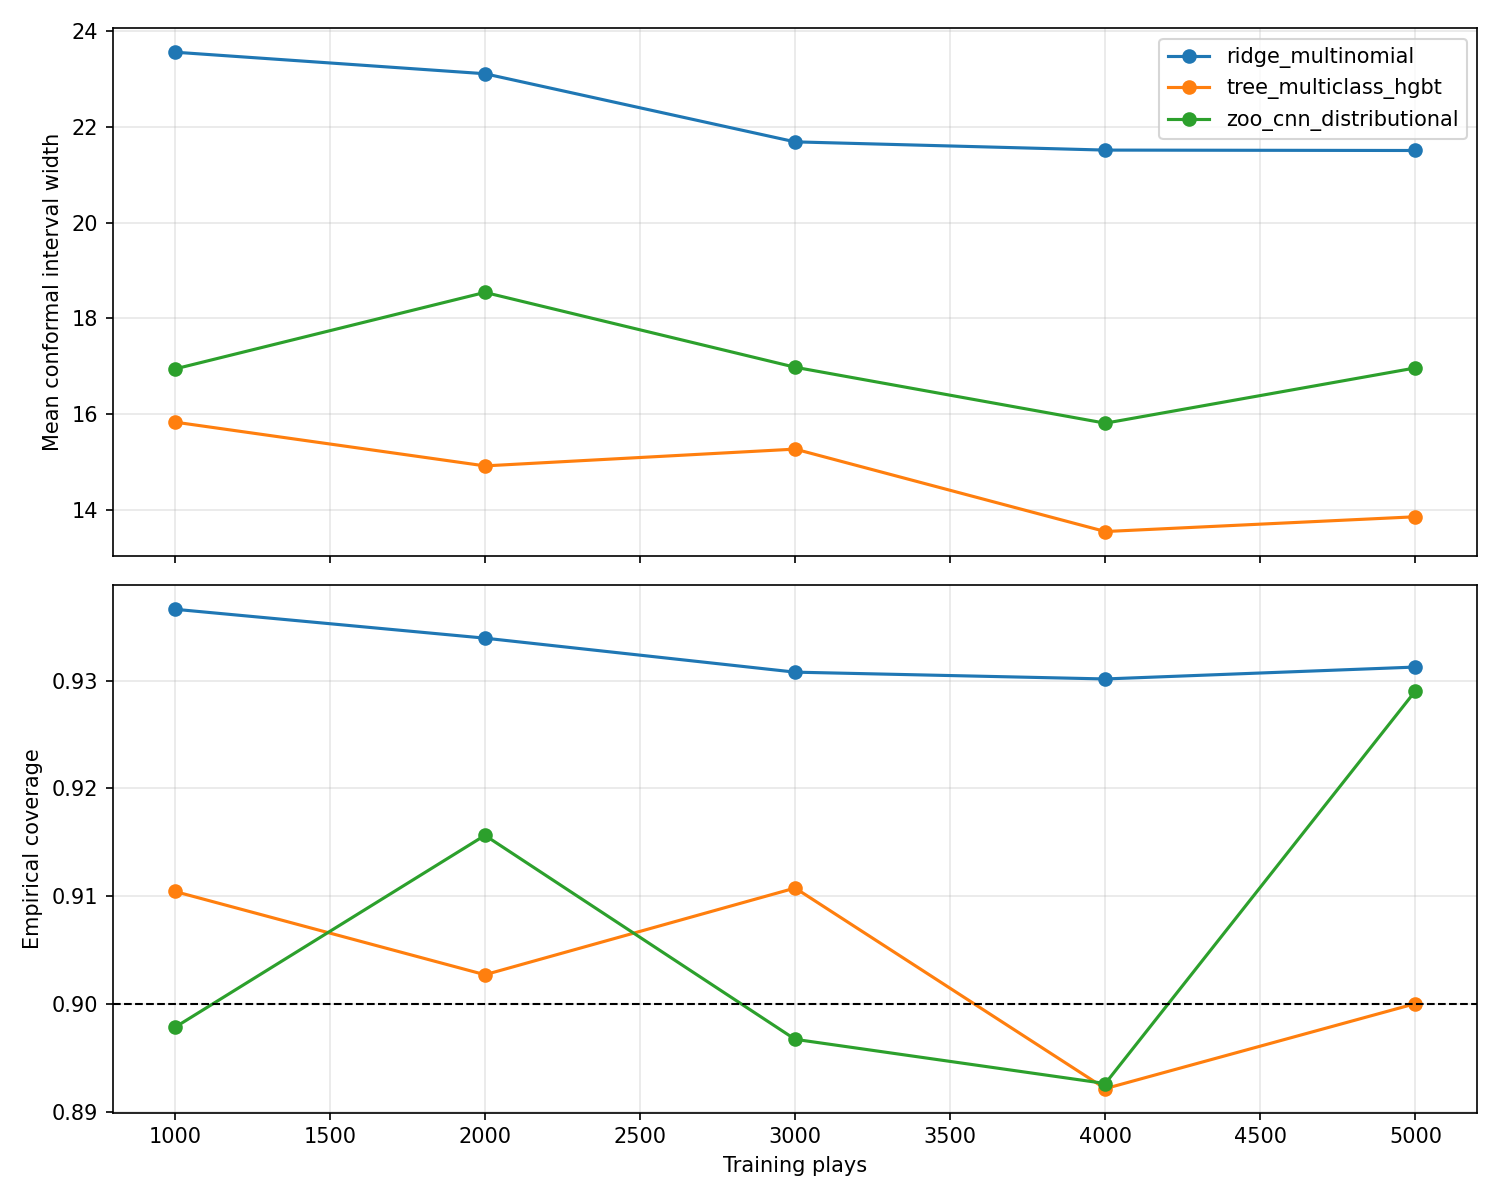
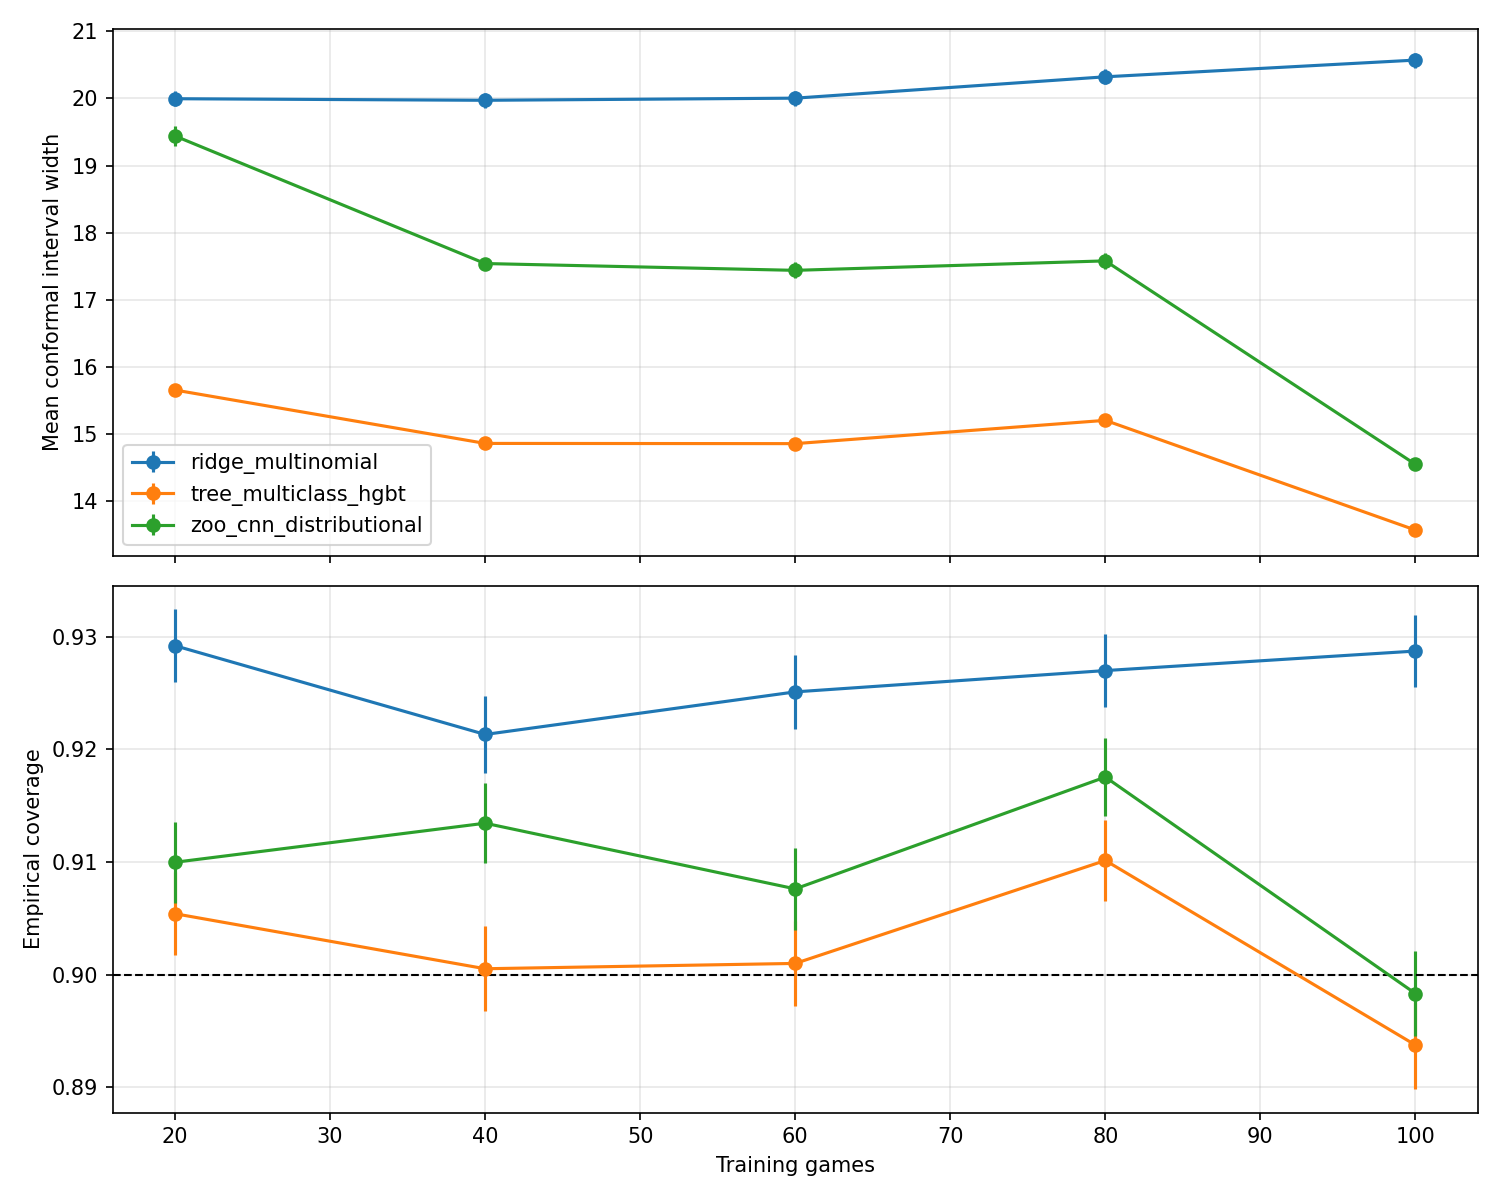
do by game

diff --git a/training_size_sweep.py b/training_size_sweep.py
@@ -1,7 +1,7 @@
 """Training-size sweep for conformalized prediction intervals across Ridge, Tree, and Zoo CNN.
 
-Uses a fixed game-level split (train_pool/calibration/test), nested train subsets in 1,000-play
-steps, and conformal interval padding on top of model central intervals from predictive distributions.
+Uses a fixed game-level split (train_pool/calibration/test), nested train subsets in 20-game
+chunks, and conformal interval padding on top of model central intervals from predictive distributions.
 """
 
 from __future__ import annotations
@@ -37,6 +37,7 @@ class SplitData:
     train_pool_idx: np.ndarray
     calibration_idx: np.ndarray
     test_idx: np.ndarray
+    train_games_ordered: np.ndarray  # Shuffled train-pool game IDs for nested subsets
 
 
 def set_determinism(seed: int) -> None:
@@ -84,10 +85,12 @@ def build_game_split(play_map: pd.DataFrame, seed: int, train_frac: float = 0.6,
     test_games = set(games[n_train + n_cal :])
 
     g = play_map["GameId"].to_numpy()
+    train_games_ordered = games[:n_train]  # First n_train games after shuffle
     return SplitData(
         train_pool_idx=np.where(np.isin(g, list(train_games)))[0],
         calibration_idx=np.where(np.isin(g, list(cal_games)))[0],
         test_idx=np.where(np.isin(g, list(test_games)))[0],
+        train_games_ordered=train_games_ordered,
     )
 
 
@@ -134,7 +137,7 @@ def evaluate_with_conformal(
     test_y: np.ndarray,
     alpha: float,
 ) -> dict[str, float]:
-    """Central interval from model + conformal q on cal; report mean width and coverage on test."""
+    """Central interval from model + conformal q on cal; report mean width, coverage, SE on test."""
     cal_l, cal_u = central_interval_from_proba(cal_proba, alpha)
     test_l, test_u = central_interval_from_proba(test_proba, alpha)
 
@@ -145,9 +148,18 @@ def evaluate_with_conformal(
     width = hi - lo
     covered = (test_y >= lo) & (test_y <= hi)
 
+    n_test = len(width)
+    mean_width = float(np.mean(width))
+    std_width = float(np.std(width, ddof=1)) if n_test > 1 else 0.0
+    se_width = std_width / (n_test**0.5)
+    coverage = float(np.mean(covered))
+
     return {
-        "mean_width": float(np.mean(width)),
-        "coverage": float(np.mean(covered)),
+        "mean_width": mean_width,
+        "std_width": std_width,
+        "se_width": se_width,
+        "n_test": float(n_test),
+        "coverage": coverage,
         "q_padding": float(q),
     }
 
@@ -323,26 +335,24 @@ def run_sweep(
 
     split = build_game_split(play_map, seed=seed)
     train_pool = split.train_pool_idx
+    train_games_ordered = split.train_games_ordered
     cal_idx = split.calibration_idx
     test_idx = split.test_idx
+    g = play_map["GameId"].to_numpy()
 
-    # One permutation of train pool; we take first n_train for each size (cal/test fixed).
-    rng = np.random.default_rng(seed)
-    perm_train_pool = rng.permutation(train_pool)
+    ridge_alpha = tune_ridge(tab_x[train_pool], y_cls[train_pool], seed)
+    tree_params = tune_tree(tab_x[train_pool], y_cls[train_pool], seed)
 
-    ridge_alpha = tune_ridge(tab_x[perm_train_pool], y_cls[perm_train_pool], seed)
-    tree_params = tune_tree(tab_x[perm_train_pool], y_cls[perm_train_pool], seed)
-
-    n_max = (len(train_pool) // 1000) * 1000
-    # Sizes 1k, 2k, ... up to max_k thousand (capped by data)
-    max_n = min(max_k * 1000, n_max)
-    sizes = list(range(1000, max_n + 1, 1000))
+    # Sizes 20, 40, 60, ... games (20-game chunks), up to max_k * 20 capped by data
+    max_games = min(max_k * 20, len(train_games_ordered))
+    sizes = list(range(20, max_games + 1, 20))
     cnn_epochs = 50  # full Zoo (match run_zoo)
     output_stem = f"sweep_{max_k}"
     rows: list[dict[str, float | int | str]] = []
 
-    for n_train in sizes:
-        subset = perm_train_pool[:n_train]  # Train on first n_train plays only.
+    for n_games in sizes:
+        first_n_games = set(train_games_ordered[:n_games])
+        subset = train_pool[np.isin(g[train_pool], list(first_n_games))]
 
         ridge = fit_ridge_fixed_classes(
             tab_x[subset], y_cls[subset], alpha=ridge_alpha, seed=seed
@@ -372,8 +382,12 @@ def run_sweep(
             rows.append(
                 {
                     "model": model_name,
-                    "n_train": n_train,
+                    "n_train": n_games,
+                    "n_plays": len(subset),
                     "mean_width": metrics["mean_width"],
+                    "std_width": metrics["std_width"],
+                    "se_width": metrics["se_width"],
+                    "n_test": metrics["n_test"],
                     "coverage": metrics["coverage"],
                     "nll": metrics["nll"],
                     "q_padding": metrics["q_padding"],
@@ -383,7 +397,7 @@ def run_sweep(
                 }
             )
 
-        print(f"Done n_train={n_train}")
+        print(f"Done n_train={n_games} games ({len(subset)} plays)")
 
     results = pd.DataFrame(rows)
     results_path = out_dir / f"{output_stem}.csv"
@@ -404,7 +418,7 @@ def run_sweep(
                 "alpha": alpha,
                 "label_support": [MIN_IDX_Y, MAX_IDX_Y],
                 "split": "gameId: train_pool=60%, calibration=20%, test=20%",
-                "nested_subsets": "first n plays from one seeded permutation",
+                "nested_subsets": "first N games (20-game chunks) from shuffled train pool",
             },
             indent=2,
         )
@@ -413,21 +427,27 @@ def run_sweep(
 
 
 def make_plot(results: pd.DataFrame, alpha: float, output_path: Path) -> None:
-    """Two panels: mean conformal width and empirical coverage vs n_train."""
+    """Two panels: mean conformal width and empirical coverage vs n_train, with SE error bars."""
     import matplotlib.pyplot as plt
 
     fig, axes = plt.subplots(2, 1, figsize=(10, 8), sharex=True)
 
     for model_name, group in results.groupby("model"):
         g = group.sort_values("n_train")
-        axes[0].plot(g["n_train"], g["mean_width"], marker="o", label=model_name)
-        axes[1].plot(g["n_train"], g["coverage"], marker="o", label=model_name)
+        axes[0].errorbar(
+            g["n_train"], g["mean_width"], yerr=g["se_width"], marker="o", label=model_name
+        )
+        # SE for proportion: sqrt(p*(1-p)/n)
+        p = g["coverage"].to_numpy()
+        n = g["n_test"].to_numpy()
+        se_cov = np.sqrt(np.maximum(0, p * (1 - p) / n))
+        axes[1].errorbar(g["n_train"], g["coverage"], yerr=se_cov, marker="o", label=model_name)
 
     axes[0].set_ylabel("Mean conformal interval width")
     axes[0].grid(True, alpha=0.3)
     axes[0].legend()
 
-    axes[1].set_xlabel("Training plays")
+    axes[1].set_xlabel("Training games")
     axes[1].set_ylabel("Empirical coverage")
     axes[1].axhline(1 - alpha, color="black", linestyle="--", linewidth=1)
     axes[1].grid(True, alpha=0.3)
@@ -450,7 +470,7 @@ def write_experiment_readme(
             [
                 "# Training-size conformal sweep",
                 "",
-                f"- Training sizes: 1k, 2k, … up to {max_k}k (controlled by `--max-k`).",
+                f"- Training sizes: 20, 40, … games (20-game chunks up to {max_k * 20} games, `--max-k` = max chunks).",
                 "- Split scheme: by `GameId` with fixed partitions train_pool=60%, calibration=20%, test=20%.",
                 f"- Miscoverage level: alpha={alpha} (target coverage={1-alpha:.2f}).",
                 f"- Label support: YardIndexClipped in [{MIN_IDX_Y}, {MAX_IDX_Y}] ({NUM_CLASSES} classes).",
@@ -466,7 +486,7 @@ def parse_args() -> argparse.Namespace:
     parser = argparse.ArgumentParser(description="Run training-size conformal stability sweep.")
     parser.add_argument("--alpha", type=float, default=0.10)
     parser.add_argument("--seed", type=int, default=123)
-    parser.add_argument("--max-k", type=int, default=50, help="Sweep training sizes 1k, 2k, … up to this many thousand. Outputs sweep_{max_k}.csv/.png; one sweep_README.md.")
+    parser.add_argument("--max-k", type=int, default=50, help="Sweep 20-game chunks up to max_k*20 games. Outputs sweep_{max_k}.csv/.png; one sweep_README.md.")
     parser.add_argument("--processed-dir", type=Path, default=Path("data/processed"))
     parser.add_argument("--raw-train-csv", type=Path, default=Path("data/raw/train.csv"))
     parser.add_argument("--out-dir", type=Path, default=Path("results"))

diff --git a/README.md b/README.md
@@ -49,10 +49,10 @@ Run the fixed-split training-size sweep and create the 2-panel stability plot:
 python training_size_sweep.py --alpha 0.10 --seed 123
 ```
 
-Quick run (sweep up to 10k only; writes `sweep_10.csv`, `sweep_10.png`, and one `sweep_README.md`):
+Quick run (sweep up to 200 games only; writes `sweep_10.csv`, `sweep_10.png`, and one `sweep_README.md`):
 
 ```bash
 python training_size_sweep.py --max-k 10
 ```
 
-Outputs in `results/` (override with `--out-dir`): `sweep_{max_k}.csv`, `sweep_{max_k}.png`, `sweep_{max_k}_config.json`, and a single **sweep_README.md** (overwritten each run) describing the sweep (including `--max-k`).
+Outputs in `results/` (override with `--out-dir`): `sweep_{max_k}.csv`, `sweep_{max_k}.png`, `sweep_{max_k}_config.json`, and a single **sweep_README.md**. Sweep uses 20-game chunks (n_train = number of games); plot includes SE error bars.

diff --git a/results/sweep_README.md b/results/sweep_README.md
@@ -1,0 +1,9 @@
+# Training-size conformal sweep
+
+- Training sizes: 20, 40, … games (20-game chunks up to 100 games, `--max-k` = max chunks).
+- Split scheme: by `GameId` with fixed partitions train_pool=60%, calibration=20%, test=20%.
+- Miscoverage level: alpha=0.1 (target coverage=0.90).
+- Label support: YardIndexClipped in [71, 150] (80 classes).
+- Conformal method: interval-from-distribution central interval + calibration padding q via finite-sample conformal quantile.
+- Seed: 123.
+- Frozen hyperparameters: Ridge (SGD) alpha=0.3333333333333333; Tree (LightGBM multiclass, num_class=80) params={'learning_rate': 0.05, 'max_depth': 10}; CNN full Zoo (CRPS loss, 20% val, early stopping patience=10, same as run_zoo).
